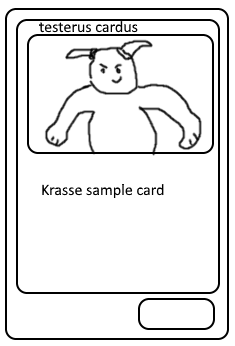
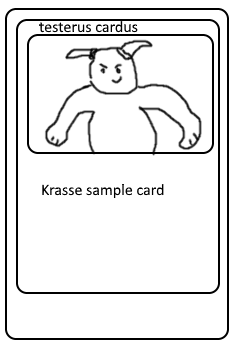
trying Stats vis

Changed region(s): [[0.566, 0.8671, 0.9234, 0.9538], [0.6255, 0.8382, 0.8936, 0.8671]]

diff --git a/scripts/Control.cs b/scripts/Control.cs
@@ -16,6 +16,10 @@ public class Control : MonoBehaviour {
 	private WriteJson W;
 	private Grave G;
 	private Board B;
+
+
+	[SerializeField]
+	private AnimationCurve _animationCurve;
 	
 	// Use this for initialization
 	void Start ()
@@ -118,7 +122,7 @@ public class Control : MonoBehaviour {
 		while(t < 1)
 		{
 			t += Time.deltaTime / timeToMove;
-			transform.position = Vector3.Lerp(currentPos, position, t);
+			transform.position = Vector3.Lerp(currentPos, position, _animationCurve.Evaluate(t));
 			yield return null;
 		}	
 		t = 0f;

diff --git a/scripts/Card.cs b/scripts/Card.cs
@@ -19,6 +19,8 @@ public class Card : MonoBehaviour
 	private String _texturePath;
 
 	private int _id;
+	[SerializeField] 
+	private TextMesh stats;
 
 	private Control C;
 	private Player P;
@@ -37,7 +39,7 @@ public class Card : MonoBehaviour
 	{
 		if (P.Hand.Contains(this.gameObject))
 		{
-			this.gameObject.transform.localScale = new Vector3(1, 1, 1);
+			this.gameObject.transform.localScale = new Vector3(1, 1, .8f);
 			this.gameObject.GetComponent<Renderer>().sortingOrder = 1;
 		}
 	}

diff --git a/scripts/TestButtonPlayCard.cs b/scripts/TestButtonPlayCard.cs
@@ -16,6 +16,6 @@ public class TestButtonPlayCard : MonoBehaviour
 
 	public void PlayACard()
 	{
-		B.PlayCard(P.Hand[0],0);
+		B.PlayCard(P.Hand[0],2);
 	}
 }
